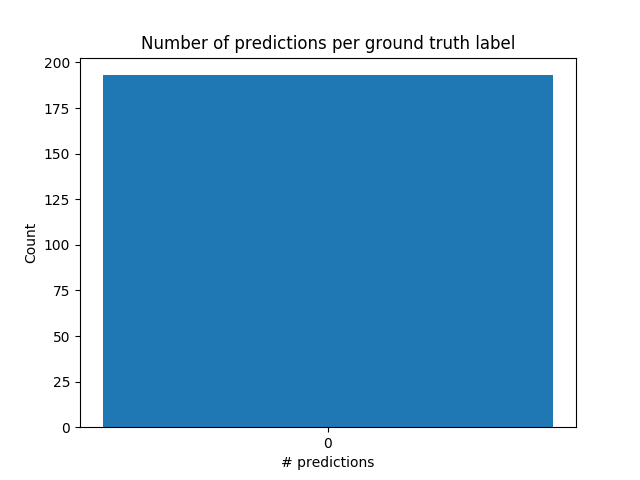
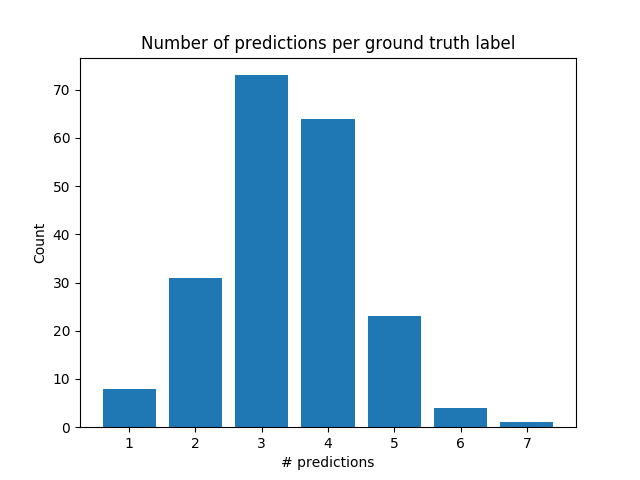
Rest of farisght outputs

diff --git a/src/jupyter/jyim6/evaluate_centers.py b/src/jupyter/jyim6/evaluate_centers.py
@@ -2,6 +2,7 @@ import numpy as np
 import csv
 import argparse
 import sys
+import os
 from collections import namedtuple
 sys.path.append('./../../util/')
 sys.path.append('./../srivathsapv/blob-metrics/')
@@ -9,32 +10,30 @@ from BlobMetrics import BlobMetrics
 from tifffile import imsave, imread
 from ImageDrawer import ImageDrawer
 
-EUC_DIST_THRES = 5
+EUC_DIST_THRES = 12
 OUTPUT_DIR = './farsight_output/'
 
 parser = argparse.ArgumentParser()
 parser.add_argument('farsight_centers', type=str)
 parser.add_argument('annotated_centers', type=str)
 parser.add_argument('results_csv', type=str)
-parser.add_argument('drawn_output', type=str)
+parser.add_argument('cell_fname', type=str)
 parser.add_argument('orig_tif', type=str)
 args = parser.parse_args()
 
 f_centers_fname, a_centers_fname = args.farsight_centers, args.annotated_centers
 results_csv = args.results_csv
-drawn_output, orig_fname = args.drawn_output, args.orig_tif
+cell_fname, orig_fname = args.cell_fname, args.orig_tif
 subvolume = f_centers_fname.split("/")[-1][:-12]    # Extract the subvolume name
 
 # Read in the annotated centers
 a_centers = []
-AnnotatedCenter = namedtuple('AnnotatedCenter', ['id', 'area', 'mean', 'min', 'max', 'x', 'y', 'z', 'counter', 'count'])
 with open(a_centers_fname, 'r') as f:
     reader = csv.reader(f)
     next(reader)
     for row in reader:
-        c = AnnotatedCenter(*row)
         a_centers.append(
-            (int(float(c.z)), int(float(c.y)), int(float(c.x)))
+            (int(float(row[1])), int(float(row[2])), int(float(row[3])))
         )
 
 
@@ -47,9 +46,9 @@ with open(f_centers_fname, 'r') as f:
         f_centers.append(
             tuple([int(x) for x in row])
         )
+# import pdb; pdb.set_trace()
 
 print("{} annotated centers, {} detected centers".format(len(a_centers), len(f_centers)))
-import pdb; pdb.set_trace()
 
 # Compute blob metrics
 metrics = BlobMetrics(a_centers, f_centers, EUC_DIST_THRES)
@@ -61,8 +60,7 @@ metrics.plot_predictions_with_ground_truth(fname=OUTPUT_DIR+subvolume+"_scatter.
 metrics.plot_predictions_per_ground_truth(fname=OUTPUT_DIR+subvolume+"_pred_v_gt.png")
 metrics.plot_ground_truths_per_prediction(fname=OUTPUT_DIR+subvolume+"_gt_v_pred.png")
 
-
-with open(results_csv, 'w') as f:
+with open(results_csv, 'a') as f:
     writer = csv.writer(f)
     writer.writerow([
         subvolume,
@@ -76,4 +74,77 @@ with open(results_csv, 'w') as f:
 
 # Draw the detected centers
 orig_img = imread(orig_fname)
-ImageDrawer.draw_centers(orig_img, seed_centers, (255,0,0), fname=drawn_output, copy=True)
+
+def min_max(x, minimum, maximum):
+    return np.maximum(np.minimum(x, minimum), maximum)
+
+def set_rgb(img, x, y, z, r, g, b):
+    img[z, y, x, 0] = r
+    img[z, y, y, 1] = g
+    img[z, y, x, 2] = b
+
+def draw_square(img, x, y, z, radi, rgb, copy=True, overwrite=True):
+    z_range, y_range, x_range, _ = img.shape
+    drawn_img = np.copy(img) if copy else img
+    r, g, b = rgb
+    for i in range(radi):
+        for j in range(radi):
+            for k in range(radi):
+                if overwrite:
+                    set_rgb(drawn_img,
+                            min_max(x+i, x_range-1, 0),
+                            min_max(y+j, y_range-1, 0),
+                            min_max(z+k, z_range-1, 0),
+                            r,
+                            g,
+                            b)
+                else:
+                    add_rgb(drawn_img,
+                            min_max(x+i, x_range-1, 0),
+                            min_max(y+j, y_range-1, 0),
+                            min_max(z+k, z_range-1, 0),
+                            r,
+                            g,
+                            b)
+    return drawn_img
+
+def save_tif(img, fname):
+    if ".tif" not in fname:
+        fname = fname + ".tif"
+    save_path = "../img/"+fname if os.path.isdir("../img/") else fname
+    save_path = "./img/"+fname if os.path.isdir("./img/") else fname
+    imsave(save_path, img.astype(np.uint8))
+    print("Saved tif as: ", fname, " at ", save_path)
+
+def draw_centers(img, centers, rgb=None):
+    r, g, b = None, None, None
+    z_range, y_range, x_range = None, None, None
+    if rgb:
+        z_range, y_range, x_range, _ = img.shape
+        r,g,b = rgb
+    else:
+        z_range, y_range, x_range = img.shape
+    for z,y,x in centers:
+        for i in range(-1,2):
+            for j in range(-1,2):
+                for k in range(-1,2):
+                    z_d, y_d, x_d = max(min(z+i, z_range-1), 0), max(min(y+j, y_range-1), 0), max(min(x+k, x_range-1), 0)
+                    if rgb:
+                        img[z_d, y_d, x_d, 0] = r
+                        img[z_d, y_d, x_d, 1] = g
+                        img[z_d, y_d, x_d, 2] = b
+                    else:
+                        img[z_d, y_d, x_d] = 255
+
+draw_centers(orig_img, f_centers, rgb=(255, 0, 0))
+draw_centers(orig_img, a_centers, rgb=(0, 255, 0))
+save_tif(orig_img, cell_fname+"_drawn_centers")
+
+z_range, y_range, x_range, _ = orig_img.shape
+blank_img = np.zeros((z_range, y_range, x_range))
+draw_centers(blank_img, f_centers)
+save_tif(blank_img, cell_fname+"_f_centers")
+
+blank_img = np.zeros((z_range, y_range, x_range))
+draw_centers(blank_img, a_centers)
+save_tif(blank_img, cell_fname+"_a_centers")

diff --git a/src/jupyter/srivathsapv/blob-metrics/BlobMetrics.py b/src/jupyter/srivathsapv/blob-metrics/BlobMetrics.py
@@ -18,8 +18,6 @@ class BlobMetrics(object):
     self.predicted_coords = predicted_coords
     self.edist = euclidean_distance_threshold
 
-    self._get_true_positives()
-
     [self.tp, self.tn, self.fp, self.fn] = self._get_submetrics()
 
   def _get_submetrics(self, edist=None):
@@ -46,11 +44,11 @@ class BlobMetrics(object):
     for p in self.ground_truth_coords:
       point_map[repr(p)] = []
 
-    for p in self.predicted_coords:
-      nearest_point, dist = self._find_nearest_point(self.ground_truth_coords, p, edist)
-      if nearest_point is not None:
-        d = { 'point': p, 'edist': dist}
-        point_map[repr(nearest_point)].append(d)
+    for i, p in enumerate(self.predicted_coords):
+        nearest_point, dist = self._find_nearest_point(self.ground_truth_coords, p, edist)
+        if nearest_point is not None:
+            d = { 'point': p, 'edist': dist}
+            point_map[repr(nearest_point)].append(d)
 
     predicted_points_with_match = set()
     for k in point_map:
@@ -102,7 +100,8 @@ class BlobMetrics(object):
       if nearest_point is not None:
         square_error_sum += self._euclidean_distance(p, nearest_point) ** 2
         n += 1
-
+    if n == 0:
+        return 0
     return square_error_sum/n
 
   def f_measure(self):
@@ -211,10 +210,13 @@ class BlobMetrics(object):
         counts[c] += 1
 
     fig, ax = plt.subplots()
-    ax.bar(counts.keys(), counts.values())
+
+    # import pdb; pdb.set_trace()
+
+    ax.bar(list(counts.keys()), list(counts.values()))
     ax.set_xlabel('# predictions', fontsize=10)
     ax.set_ylabel('Count', fontsize=10)
-    plt.xticks(counts.keys(), counts.keys())
+    plt.xticks(list(counts.keys()), list(counts.keys()))
     ax.set_title('Number of predictions per ground truth label', fontsize=12)
     if fname:
         plt.savefig(fname)
@@ -232,10 +234,10 @@ class BlobMetrics(object):
         counts[c] += 1
 
     fig, ax = plt.subplots()
-    ax.bar(counts.keys(), counts.values())
+    ax.bar(list(counts.keys()), list(counts.values()))
     ax.set_xlabel('# ground truths', fontsize=10)
     ax.set_ylabel('Count', fontsize=10)
-    plt.xticks(counts.keys(), counts.keys())
+    plt.xticks(list(counts.keys()), list(counts.keys()))
     ax.set_title('Number of ground truth labels per prediction', fontsize=12)
     if fname:
         plt.savefig(fname)
